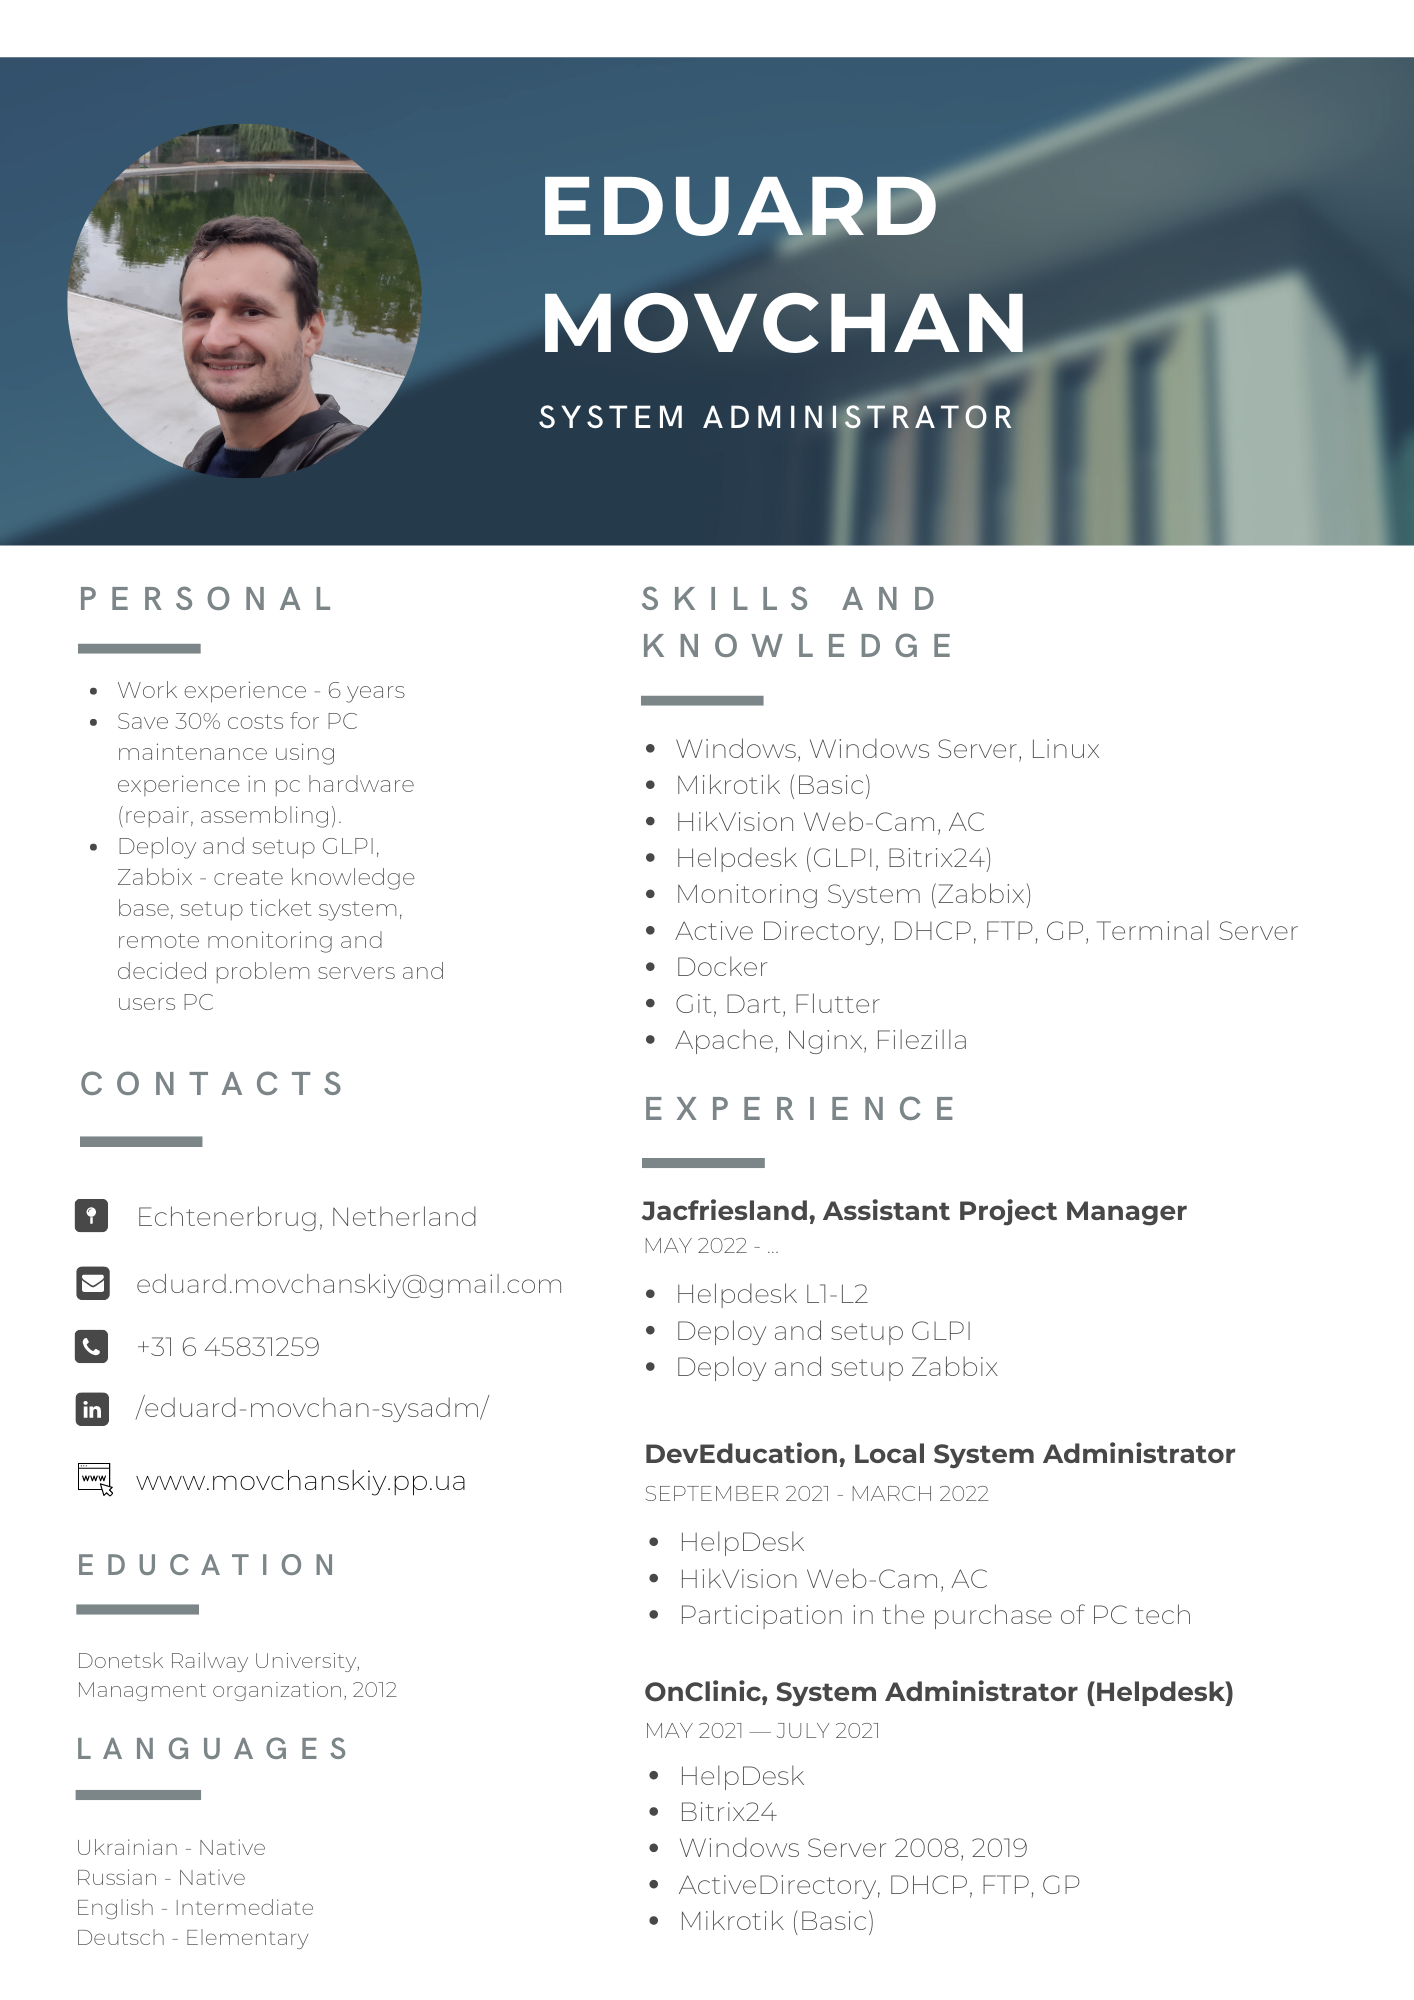
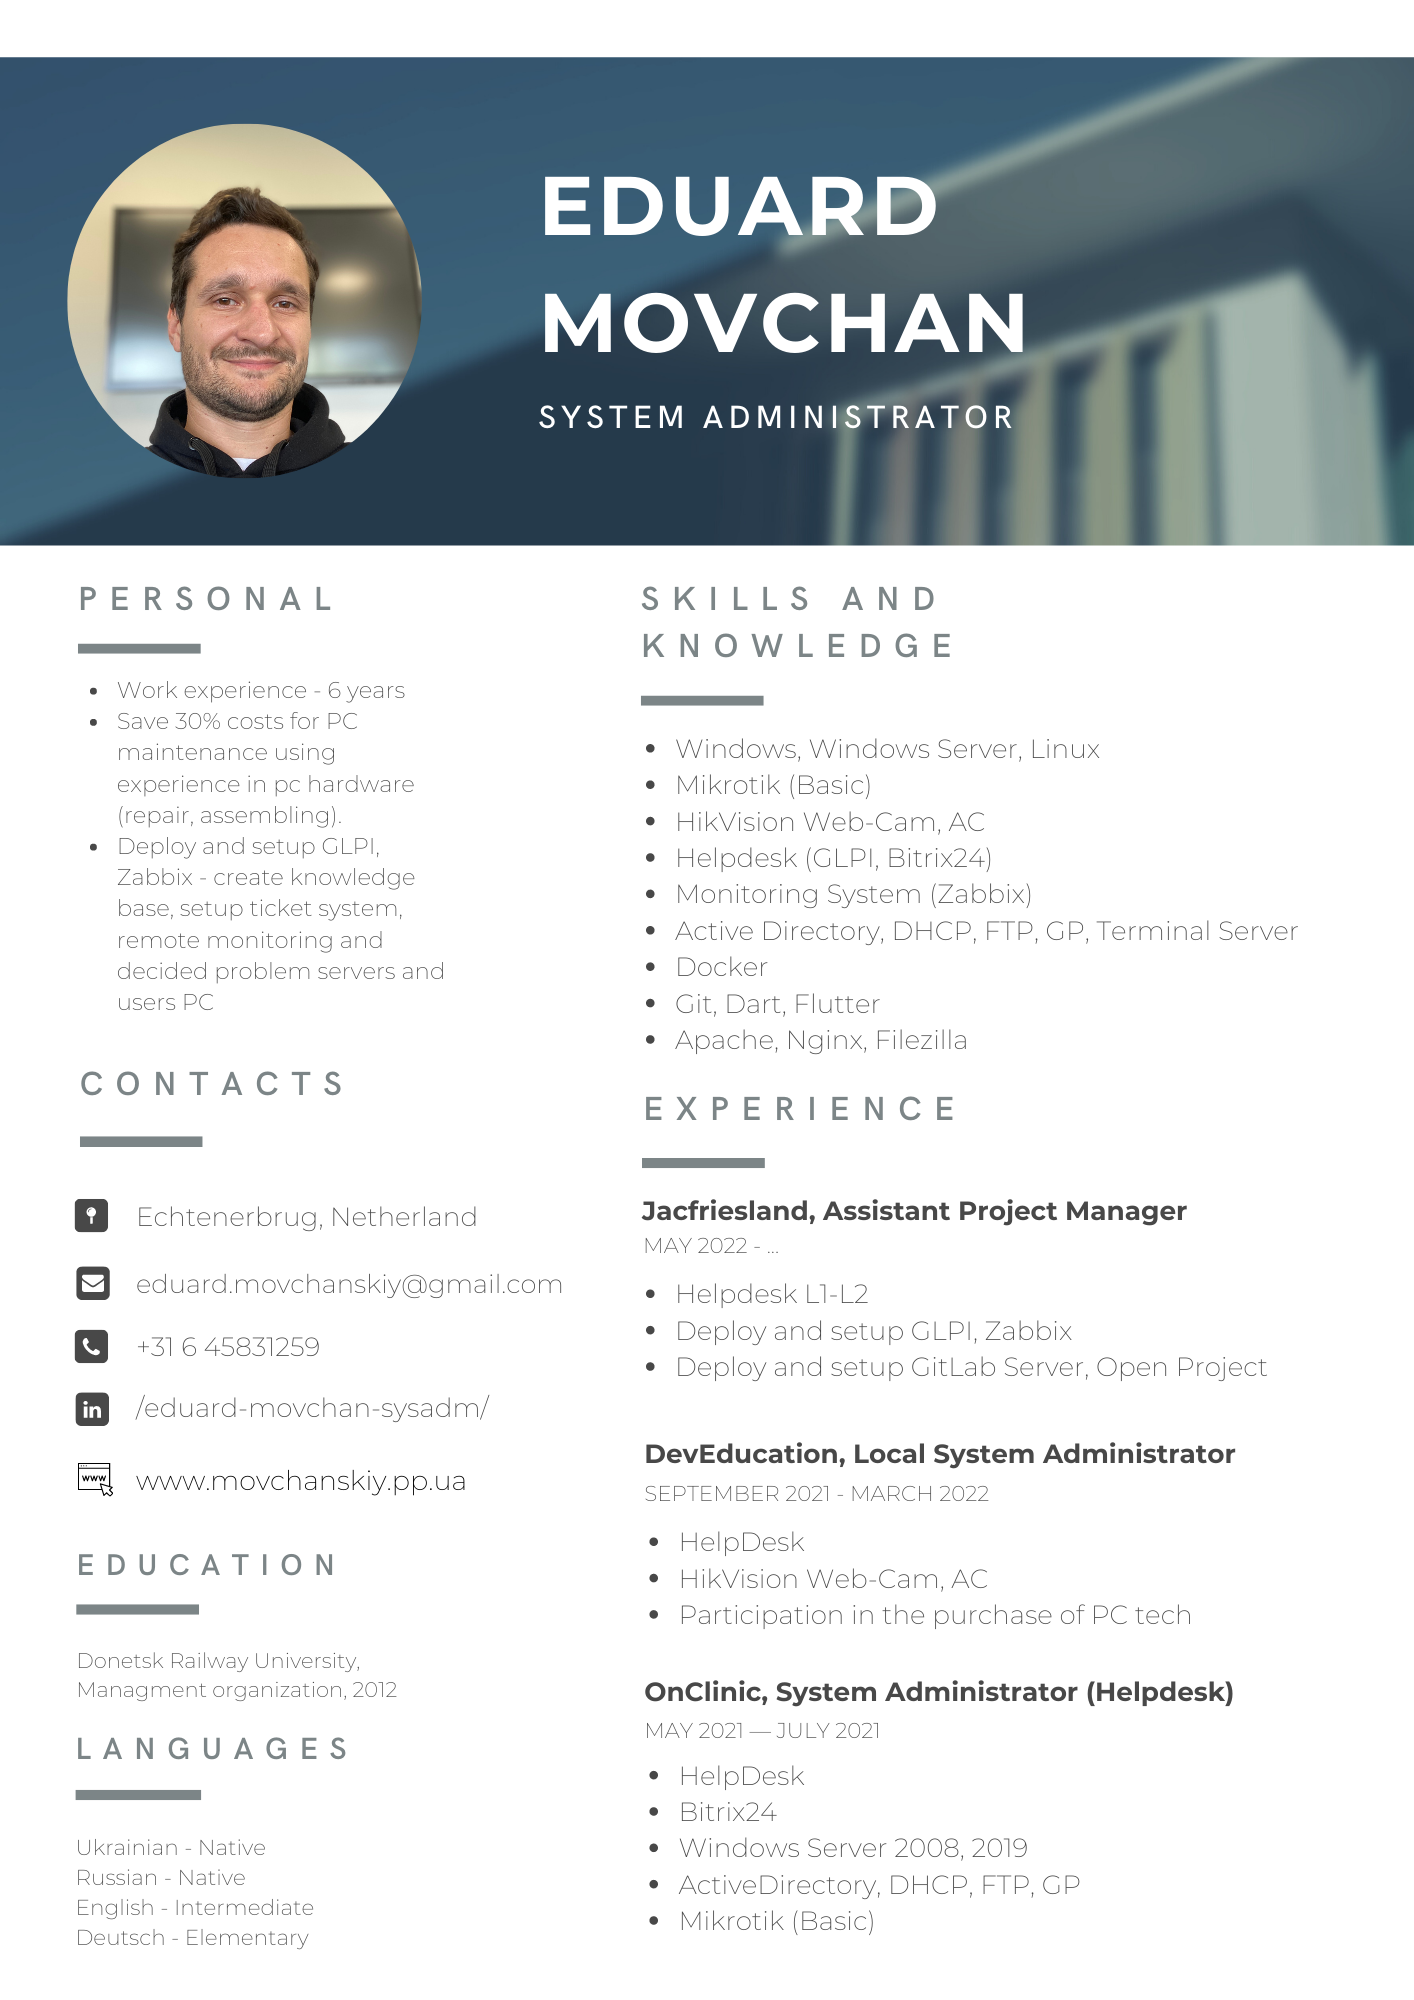
Change CV foto, add skills

Changed region(s): [[0.0311, 0.062, 0.3112, 0.248]]

diff --git a/lib/my_home_page.dart b/lib/my_home_page.dart
@@ -29,7 +29,7 @@ class _MyHomePageState extends State<MyHomePage> {
   @override
   Widget build(BuildContext context) {
     return Scaffold(
-      backgroundColor: Colors.orange.shade300,
+      backgroundColor: Colors.orange.shade400,
       bottomNavigationBar: BottomAppBar(
         color: Colors.transparent,
         child: Container(
@@ -40,7 +40,7 @@ class _MyHomePageState extends State<MyHomePage> {
                 'Skills: Windows, Windows Server, Linux, MacOS, Android, iOS, '
                 'Active Directory, FTP, SMTP, DHCP, Group Policy, Terminal Server, '
                 'Apache, Nginx, Git, Flutter, Dart, GLPI, Zabbix, Bitrix24, '
-                'HikVision, Mikrotik',
+                'HikVision, Mikrotik, GitLab Server, Open Project',
             style: TextStyle(fontWeight: FontWeight.bold, fontSize: 24),
             scrollAxis: Axis.horizontal,
             crossAxisAlignment: CrossAxisAlignment.start,
@@ -81,7 +81,7 @@ class _MyHomePageState extends State<MyHomePage> {
             Padding(
               padding: EdgeInsets.only(bottom: 20),
               child: SelectableText(
-                'Last updated: 11 July 2022',
+                'Last updated: 27 Oktober 2022',
                 style: TextStyle(fontSize: 24, fontWeight: FontWeight.bold),
               ),
             ),
@@ -176,7 +176,7 @@ class _MyHomePageState extends State<MyHomePage> {
                   ],
                 ),
                 height: height * 0.08,
-                width: width * 0.4,
+                width: width * 0.3,
                 child: Row(
                   mainAxisAlignment: MainAxisAlignment.center,
                   children: [
@@ -234,7 +234,7 @@ class _MyHomePageState extends State<MyHomePage> {
                   ],
                 ),
                 height: height * 0.08,
-                width: width * 0.4,
+                width: width * 0.3,
                 child: Row(
                   mainAxisAlignment: MainAxisAlignment.center,
                   children: [

diff --git a/lib/cv.dart b/lib/cv.dart
@@ -23,7 +23,7 @@ class CV extends StatelessWidget {
               ElevatedButton(
                 onPressed: () {
                   downloadFile(
-                      'https://drive.google.com/u/0/uc?id=1s_IhqHoTLpps-x3f1_xUrjoqIbsoDENX&export=download');
+                      'https://drive.google.com/uc?id=11zyTJ51FBf5oAHxABM5xhwIdji_R4AZH&export=download');
                 },
                 style: ButtonStyle(
                     backgroundColor:
